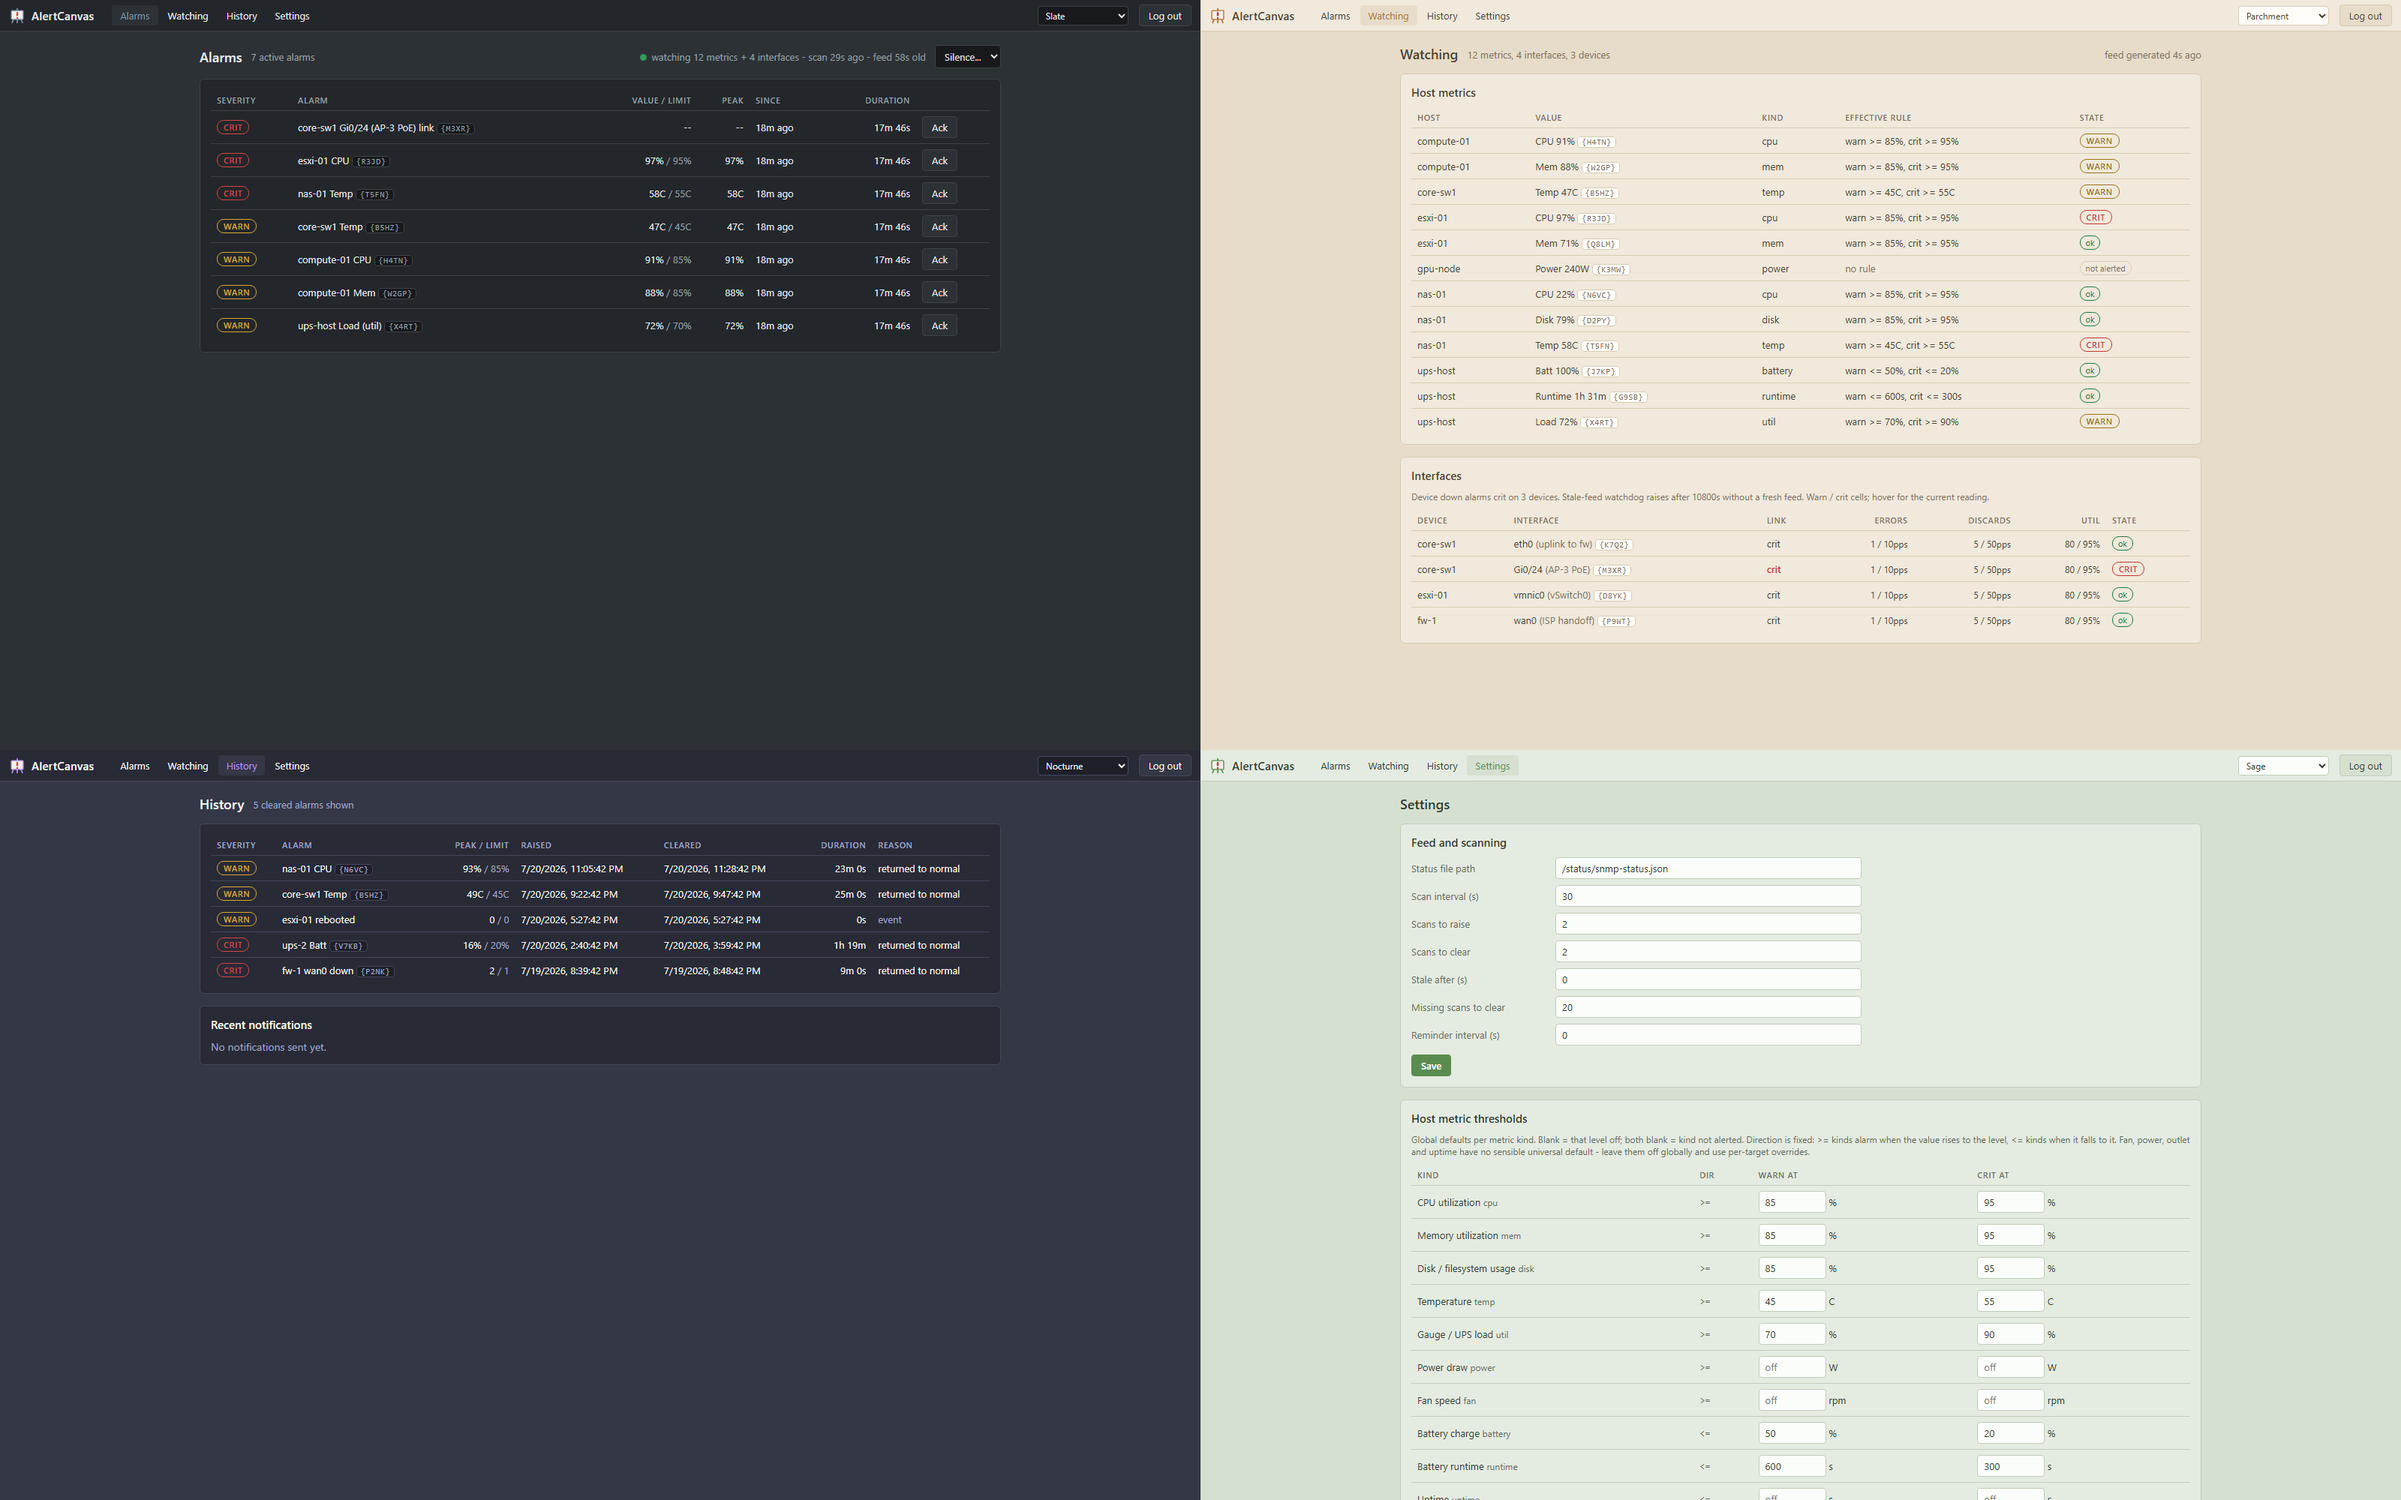
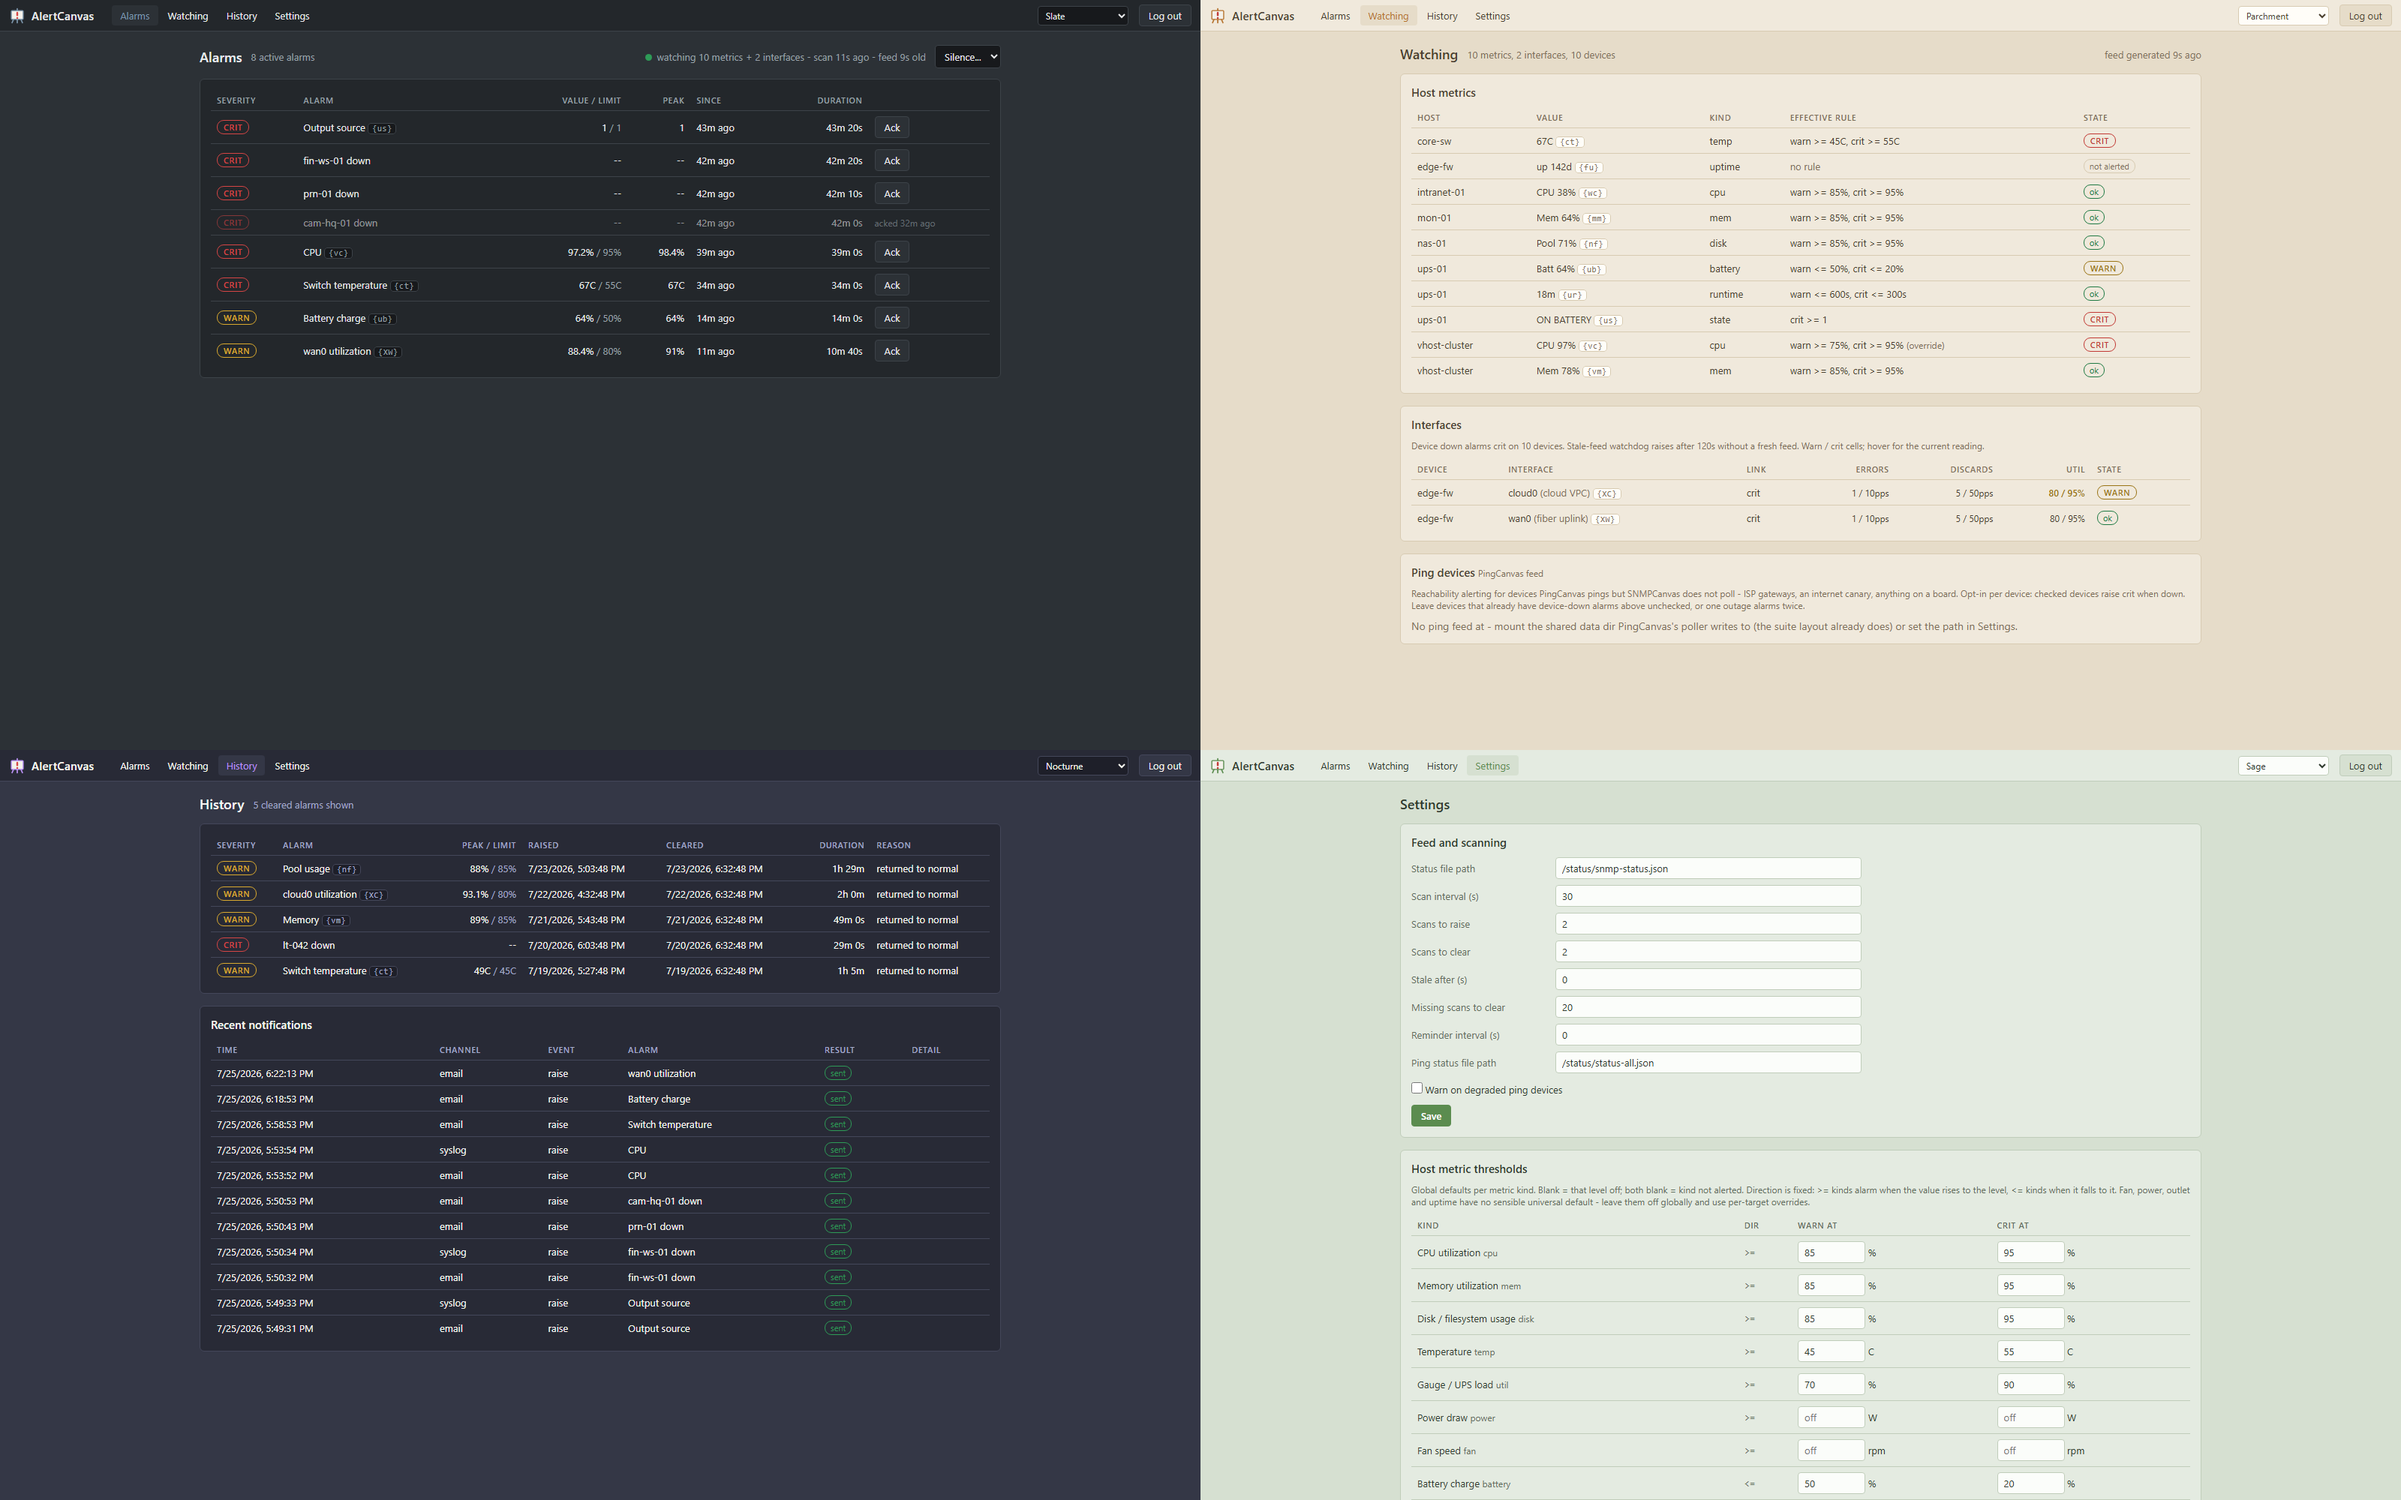
Re-shoot the hero: one power cut, four themes
The old hero showed a quiet board, which undersells an alerting tool. This one
is a single incident seen four ways: mains lost in Building A, so the UPS is
carrying the rack and everything on wall power has dropped. Eight alarms
firing, one already acknowledged so the ack state is visible; Watching shows
the same UPS on battery and the same core switch at 67C; History is older,
unrelated, cleared incidents, because this one has not cleared.

Also brings the hero onto the suite's shared demo estate - the hostnames and
addresses here now match the diagram in CrossCanvas and the wall in PingCanvas
rather than a lab that no longer exists.

Shot with the committed rig (canvas-suite-demo tools/shoot), so it is a rerun
rather than archaeology next time. Native 1x rather than supersampled: sharper
text and 298KB against 805KB for a file GitHub serves on every README view.

Alt text updated to describe the incident.

diff --git a/README.md b/README.md
@@ -27,7 +27,7 @@ The family's small-footprint ethos carries over: one container, one SQLite
 file, two runtime dependencies, and a frontend that is plain HTML/CSS/JS
 with no build step.
 
-![Four AlertCanvas themes, four views - Alarms, Watching, History, and Settings - shown in the Slate, Parchment, Nocturne, and Sage themes](docs/hero-quadrants.png)
+![Four AlertCanvas themes, four views during one power cut - Alarms with eight firing and one already acknowledged, Watching showing the UPS on battery and the core switch at 67C, History of older cleared incidents, and threshold Settings - shown in the Slate, Parchment, Nocturne, and Sage themes](docs/hero-quadrants.png)
 
 ## How it works
 
